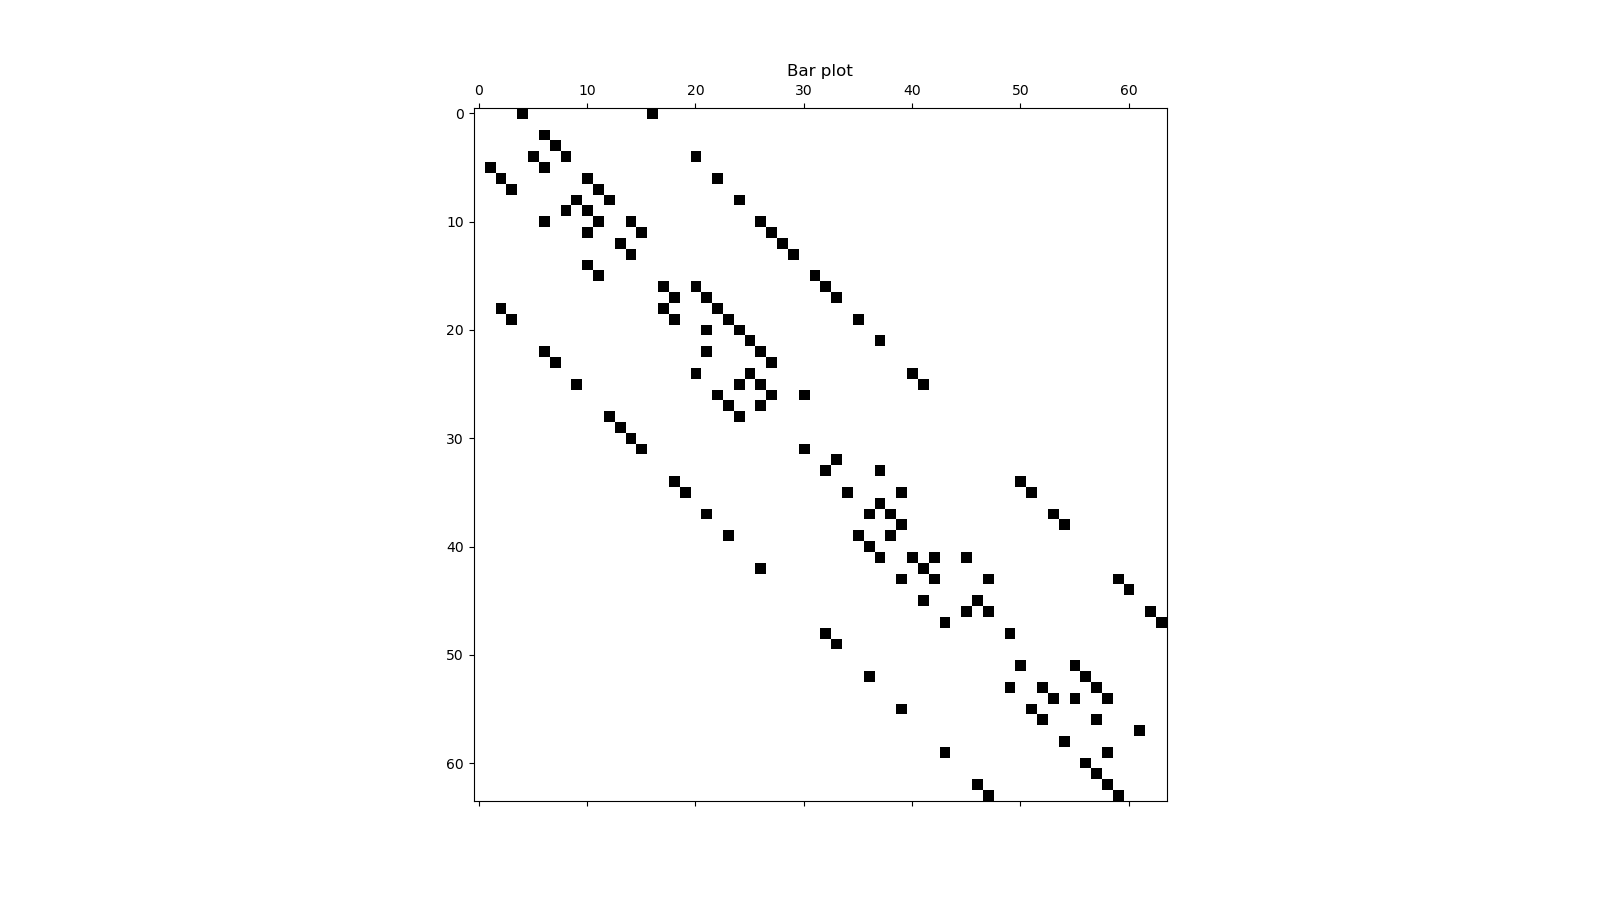
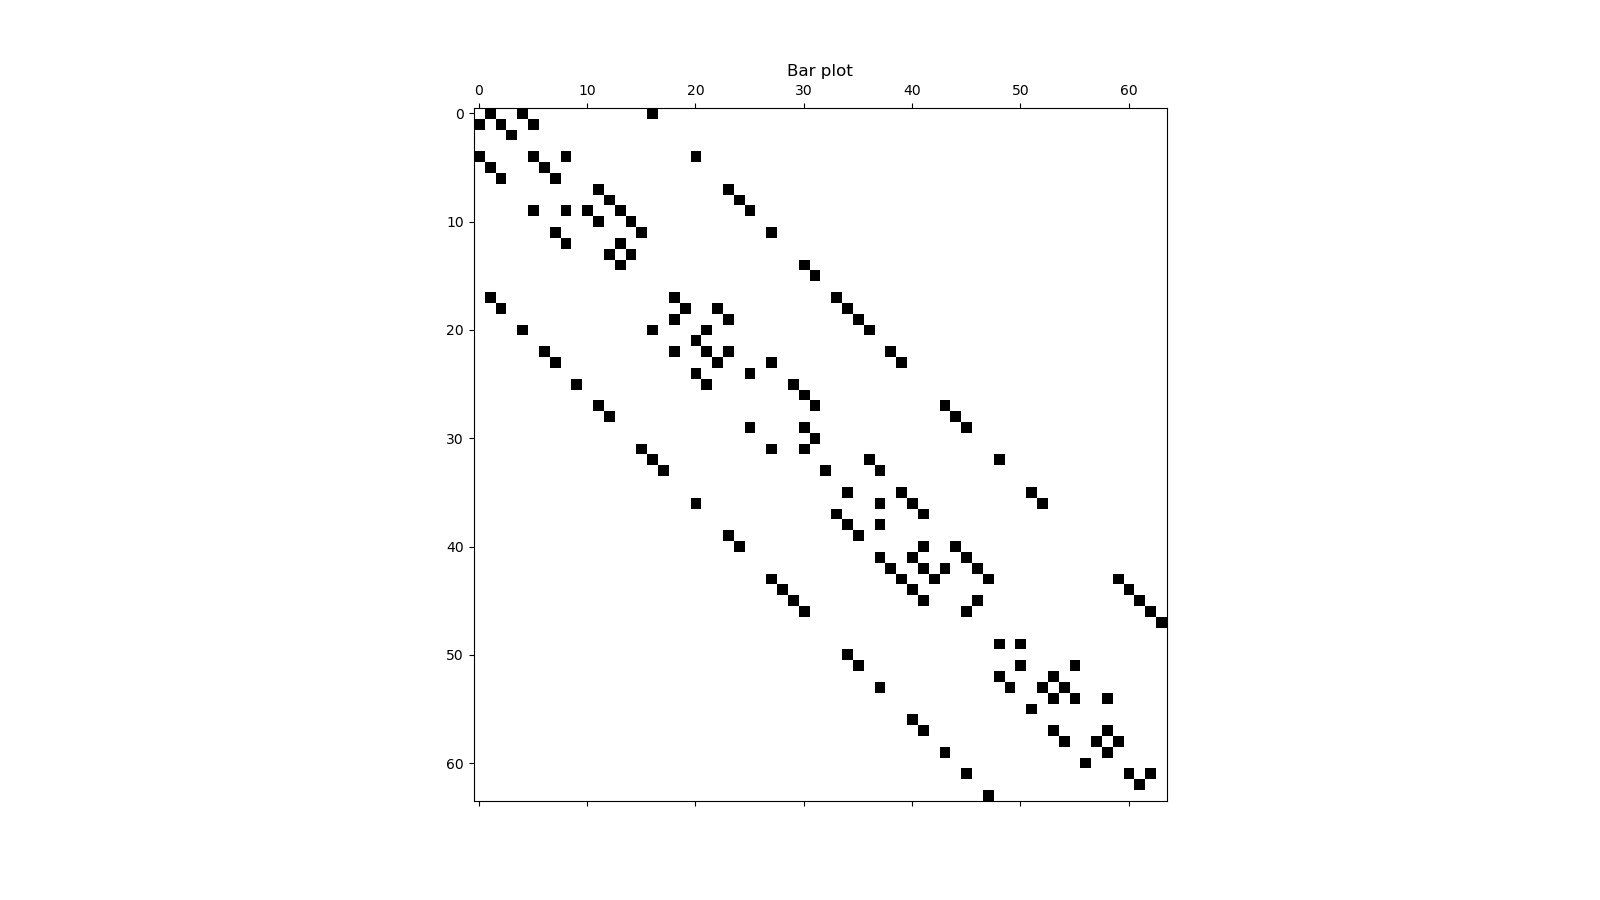
lab4

diff --git a/zad4/permutations.py b/zad4/permutations.py
@@ -2,79 +2,88 @@ import numpy as np
 import networkx as nx
 from collections import deque
 
-def minimum_degree_permutation(matrix):
-    n,m = matrix.shape
-    ADJ = {i:set() for i in range(n)}
-    for i in range(n):
-        for j in range(m):
-            if matrix[i][j] != 0 and i != j:
-                ADJ[i].add(j)
-    permutation = []
-    for i in range(n):
-        deg_min = m+1
-        for v, adj in ADJ.items():
-            if len(adj) < deg_min:
-                v_min = v
-                deg_min = len(adj)
-        for v in ADJ:
-            ADJ[v] = ADJ[v].difference([v_min])
-        for u in ADJ[v_min]:
-            ADJ[u] = (ADJ[u].union(ADJ[v_min].difference([u])))
-        ADJ.pop(v_min)
-        permutation.append(v_min)
-    return permutation
 
-def cuthill_mckee(matrix):
 
-    def BFS():
-        while Q:
-            v = Q.popleft()
-            if Visited[v]:
+class PermutationEngine:
+
+    def __init__(self, algorithm):
+        self.permutation_algorithm = {'minimum_degree': self._minimum_degree_permutation,
+                            'cuthill_mckee': self._cuthill_mckee,
+                            'reversed_cuthill_mckee': self._reversed_cuthill_mckee}.get(algorithm)
+
+
+    def _minimum_degree_permutation(self, matrix):
+        n,m = matrix.shape
+        ADJ = {i:set() for i in range(n)}
+        for i in range(n):
+            for j in range(m):
+                if matrix[i][j] != 0 and i != j:
+                    ADJ[i].add(j)
+        permutation = []
+        for i in range(n):
+            deg_min = m+1
+            for v, adj in ADJ.items():
+                if len(adj) < deg_min:
+                    v_min = v
+                    deg_min = len(adj)
+            for v in ADJ:
+                ADJ[v] = ADJ[v].difference([v_min])
+            for u in ADJ[v_min]:
+                ADJ[u] = (ADJ[u].union(ADJ[v_min].difference([u])))
+            ADJ.pop(v_min)
+            permutation.append(v_min)
+        return permutation
+
+    def _cuthill_mckee(self, matrix):
+
+        def BFS():
+            while Q:
+                v = Q.popleft()
+                if Visited[v]:
+                    continue
+                permutation.append(v)
+                Visited[v] = True
+                for u in sorted(nx.neighbors(G, v), key = lambda x : G.degree(x)):
+                    if not Visited[u]:
+                        Q.append(u)
+        n = len(matrix)
+        
+        G = nx.Graph()
+        G.add_nodes_from(range(n))
+        
+        for i in range(n):
+            for j in range(n):
+                if matrix[i][j] != 0 and i != j:
+                    G.add_edge(i, j)
+
+        permutation = []
+        Visited = [False for i in range(n)]
+        sorted_nodes = sorted([x for x in G.degree()], key = lambda x : x[1])
+        # print(sorted_nodes)
+        sorted_nodes = list(map(lambda x : x[0], sorted_nodes))
+        Q = deque()
+        for s in sorted_nodes:
+            if not Visited[s]:
+                Q.append(s)
+                BFS()
+        
+        return permutation
+
+    def _reversed_cuthill_mckee(self, matrix):
+        return self._cuthill_mckee(matrix)[::-1]
+
+    def permutate(self, matrix):
+        permutation = self.permutation_algorithm(matrix)
+        new_matrix = matrix.copy()
+        for i in range(len(permutation)):
+            if i == permutation[i]:
                 continue
-            permutation.append(v)
-            Visited[v] = True
-            for u in sorted(nx.neighbors(G, v), key = lambda x : G.degree(x)):
-                if not Visited[u]:
-                    Q.append(u)
-    n = len(matrix)
-    
-    G = nx.Graph()
-    G.add_nodes_from(range(n))
-    
-    for i in range(n):
-        for j in range(n):
-            if matrix[i][j] != 0 and i != j:
-                G.add_edge(i, j)
+            new_matrix[i,:] = matrix[permutation[i],:].copy()
 
-    permutation = []
-    Visited = [False for i in range(n)]
-    sorted_nodes = sorted([x for x in G.degree()], key = lambda x : x[1])
-    # print(sorted_nodes)
-    sorted_nodes = list(map(lambda x : x[0], sorted_nodes))
-    Q = deque()
-    for s in sorted_nodes:
-        if not Visited[s]:
-            Q.append(s)
-            BFS()
+        matrix = new_matrix.copy()
+        for i in range(len(permutation)):
+            if i == permutation[i]:
+                continue
+            new_matrix[:,i] = matrix[:,permutation[i]].copy()
 
-    
-    
-    return permutation
-
-def reversed_cuthill_mckee(matrix):
-    return cuthill_mckee(matrix)[::-1]
-
-def permutate(matrix, permutation):
-    new_matrix = matrix.copy()
-    for i in range(len(permutation)):
-        if i == permutation[i]:
-            continue
-        new_matrix[i,:] = matrix[permutation[i],:].copy()
-
-    matrix = new_matrix.copy()
-    for i in range(len(permutation)):
-        if i == permutation[i]:
-            continue
-        new_matrix[:,i] = matrix[:,permutation[i]].copy()
-
-    return new_matrix
+        return new_matrix

diff --git a/zad4/main.py b/zad4/main.py
@@ -1,6 +1,6 @@
 from compress import compress_matrix, decompress_matrix
 from utils import generate_3d_matrix_mesh, sparse_draw
-from permutations import cuthill_mckee, reversed_cuthill_mckee, minimum_degree_permutation, permutate
+from permutations import PermutationEngine
 
 for k in [2, 3, 4]:
     matrix = generate_3d_matrix_mesh(k)
@@ -9,18 +9,44 @@ for k in [2, 3, 4]:
     sparse_draw(matrix, f"./zad4/data/k_{k}/2a.png")
 
     #draw matrix after compression
-    compressed_matrix = compress_matrix(matrix, max_rank=4, min_singular_val=0)
+    compressed_matrix = compress_matrix(matrix.copy(), max_rank=4, min_singular_val=0)
     compressed_matrix.draw_matrix(f"./zad4/data/k_{k}/2b.png")
     
 
-    #draw matrix after permutation
-    permutation = cuthill_mckee(matrix)
+    # Minimum-Degree
+    permutation_engine = PermutationEngine('minimum_degree')
 
-    permutated_matrix = permutate(matrix, permutation)
-    sparse_draw(permutated_matrix, f"./zad4/data/k_{k}/2c.png")
+    permutated_matrix = permutation_engine.permutate(matrix.copy())
+    sparse_draw(permutated_matrix, f"./zad4/data/k_{k}/2c-min_deg.png")
     
 
     #draw matrix after compressiona and permutation
     compressed_permutated_matrix = compress_matrix(permutated_matrix, max_rank=4, min_singular_val=0)
-    compressed_permutated_matrix.draw_matrix(f"./zad4/data/k_{k}/2d.png")
+    compressed_permutated_matrix.draw_matrix(f"./zad4/data/k_{k}/2d-min_deg.png")
 
+
+
+    # Reversed-Cuthil-Mckee
+    #draw matrix after permutation
+    permutation_engine = PermutationEngine('reversed_cuthill_mckee')
+
+    permutated_matrix = permutation_engine.permutate(matrix.copy())
+    sparse_draw(permutated_matrix, f"./zad4/data/k_{k}/2c-rev_cut_mc.png")
+    
+
+    #draw matrix after compressiona and permutation
+    compressed_permutated_matrix = compress_matrix(permutated_matrix, max_rank=4, min_singular_val=0)
+    compressed_permutated_matrix.draw_matrix(f"./zad4/data/k_{k}/2d-rev_cut_mc.png")
+
+
+    # Cuthil-Mckee
+    #draw matrix after permutation
+    permutation_engine = PermutationEngine('cuthill_mckee')
+
+    permutated_matrix = permutation_engine.permutate(matrix.copy())
+    sparse_draw(permutated_matrix, f"./zad4/data/k_{k}/2c-cut_mc.png")
+    
+
+    #draw matrix after compressiona and permutation
+    compressed_permutated_matrix = compress_matrix(permutated_matrix, max_rank=4, min_singular_val=0)
+    compressed_permutated_matrix.draw_matrix(f"./zad4/data/k_{k}/2d-cut_mc.png")
